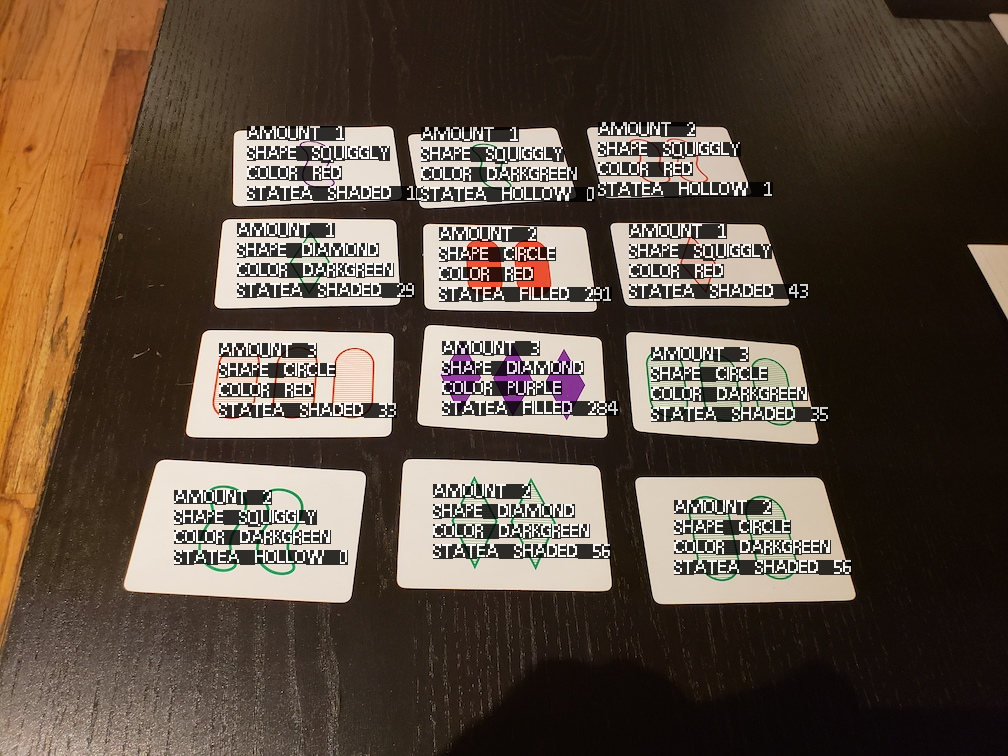
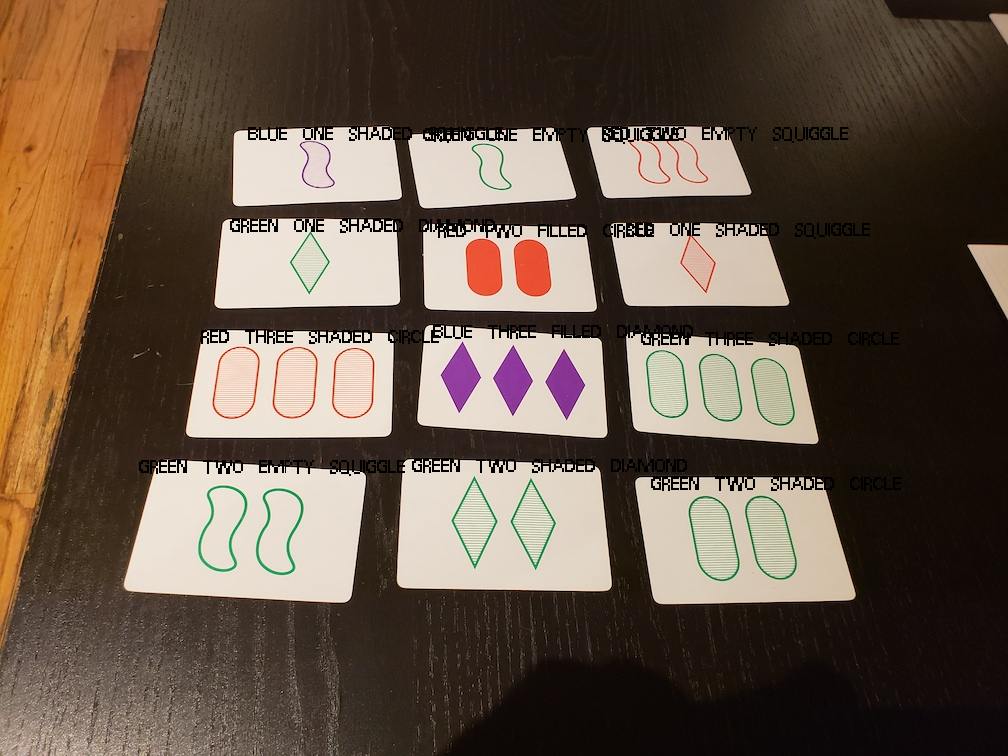
Fixed

diff --git a/src/Main.java b/src/Main.java
@@ -5,37 +5,17 @@ import java.util.Arrays;
 import java.awt.Desktop;
 
 public class Main {
+
+    /*
+
+        TODO: 
+    */
+
     public static void main(String[] args) {
-        Image input = new Image("inputs/setGame1.png");
-
-        int[][] q = input.getGrid();
-
-        q = highlight.prepareImage(q);
-
-        short[][][] grid = Image.convert(q);
-
-        ArrayList<Card> cards = Card.getCards(grid);
-        for (Card card : cards) {
-            System.out.println(card);
-            card.draw(q);
-        }
-
-        ArrayList<Card[]> matches = Card.matches(cards);
-        for (Card[] m : matches) {
-            System.out.println(Arrays.deepToString(m));
-        }
-
-
-        Image output = new Image("outputs/outputGame1.png", q[0].length, q.length);
-
-        output.setGrid(q);
-        
-        //imageTest();
-        
+        imageTest();
     }
 
     public static void imageTest() {
-
         identify("inputs/input1.jpeg", "outputs/output1.png");
         //identify("inputs/input2.jpeg", "outputs/output2.png");
         //identify("inputs/input3.png", "outputs/output3.png");
@@ -46,21 +26,33 @@ public class Main {
         System.out.println("finished with 0 errors!");
     }
 
-    private static void identify(String inputPath, String outputPath) {
+    private static long identify(String inputPath, String outputPath) {
         long start = System.currentTimeMillis();
+
+        // get and prepare image
         Image input = new Image(inputPath);
+        int[][] grid = input.getGrid();
 
-        short[][][] grid = Image.convert(input.getGrid());
-        
-        short[][][] newgrid = highlight.processImage(grid[0], grid[1], grid[2]);
+        // find, print, and draw cards to grid
+        ArrayList<Card> cards = Card.getCards(Image.convert(grid));
+        for (Card card : cards) {
+            System.out.println(card);
+            card.draw(grid);
+        }
 
+        // find and print matches found
+        ArrayList<Card[]> matches = Card.matches(cards);
+        for (Card[] m : matches) {
+            System.out.println(Arrays.deepToString(m));
+        }
+
+        // create and set a new output image (so we can run more tests on the input image)
         Image output = new Image(outputPath, grid[0].length, grid.length);
+        output.setGrid(grid);
 
-        System.out.println("yo: " + (System.currentTimeMillis() - start));
-
-        output.setGrid(Image.convert(newgrid));
-
+        return System.currentTimeMillis() - start; // return total time
     }
+
     private static void identify(String inputPath, String outputPath, boolean open) {
         identify(inputPath, outputPath);
         if(open){

diff --git a/src/ritikareadetection.java b/src/ritikareadetection.java
@@ -14,8 +14,8 @@ public class ritikareadetection{
     //For example, any shade of white has a ratio of 1:1:1
 
     public static double[] colorRatio = new double[]{1,1};;
-    public static double[] colorRatioVariance = new double[]{0.1,0.1};
-    public static int[] colorRatioMaximum = new int[]{240,240,240};
+    public static double[] colorRatioVariance = new double[]{0.14,0.14};
+    public static int[] colorRatioMaximum = new int[]{160,160,160};
 
 
     public static boolean inverse = false;
@@ -29,7 +29,7 @@ public class ritikareadetection{
     //If you increase neighborSize to 2, it'll bypass the line
     //If it's a 2 pixel wide line, you can set it to 3
     //neighborSize makes the program exponentially more laggy though
-    public static int neighborSize = 4;
+    public static int neighborSize = 1;
 
 
     public static ArrayList<PixelArea> processImage(short[][] red, short[][] green, short[][] blue) {

diff --git a/src/Card.java b/src/Card.java
@@ -95,6 +95,8 @@ public class Card {
         number = getNumber();
 
         fill = getFill();
+
+        ritikareadetection.inverse = false;
     }
 
     public Card(PrimaryColor c, Number n, Fill f, Shape s) {
